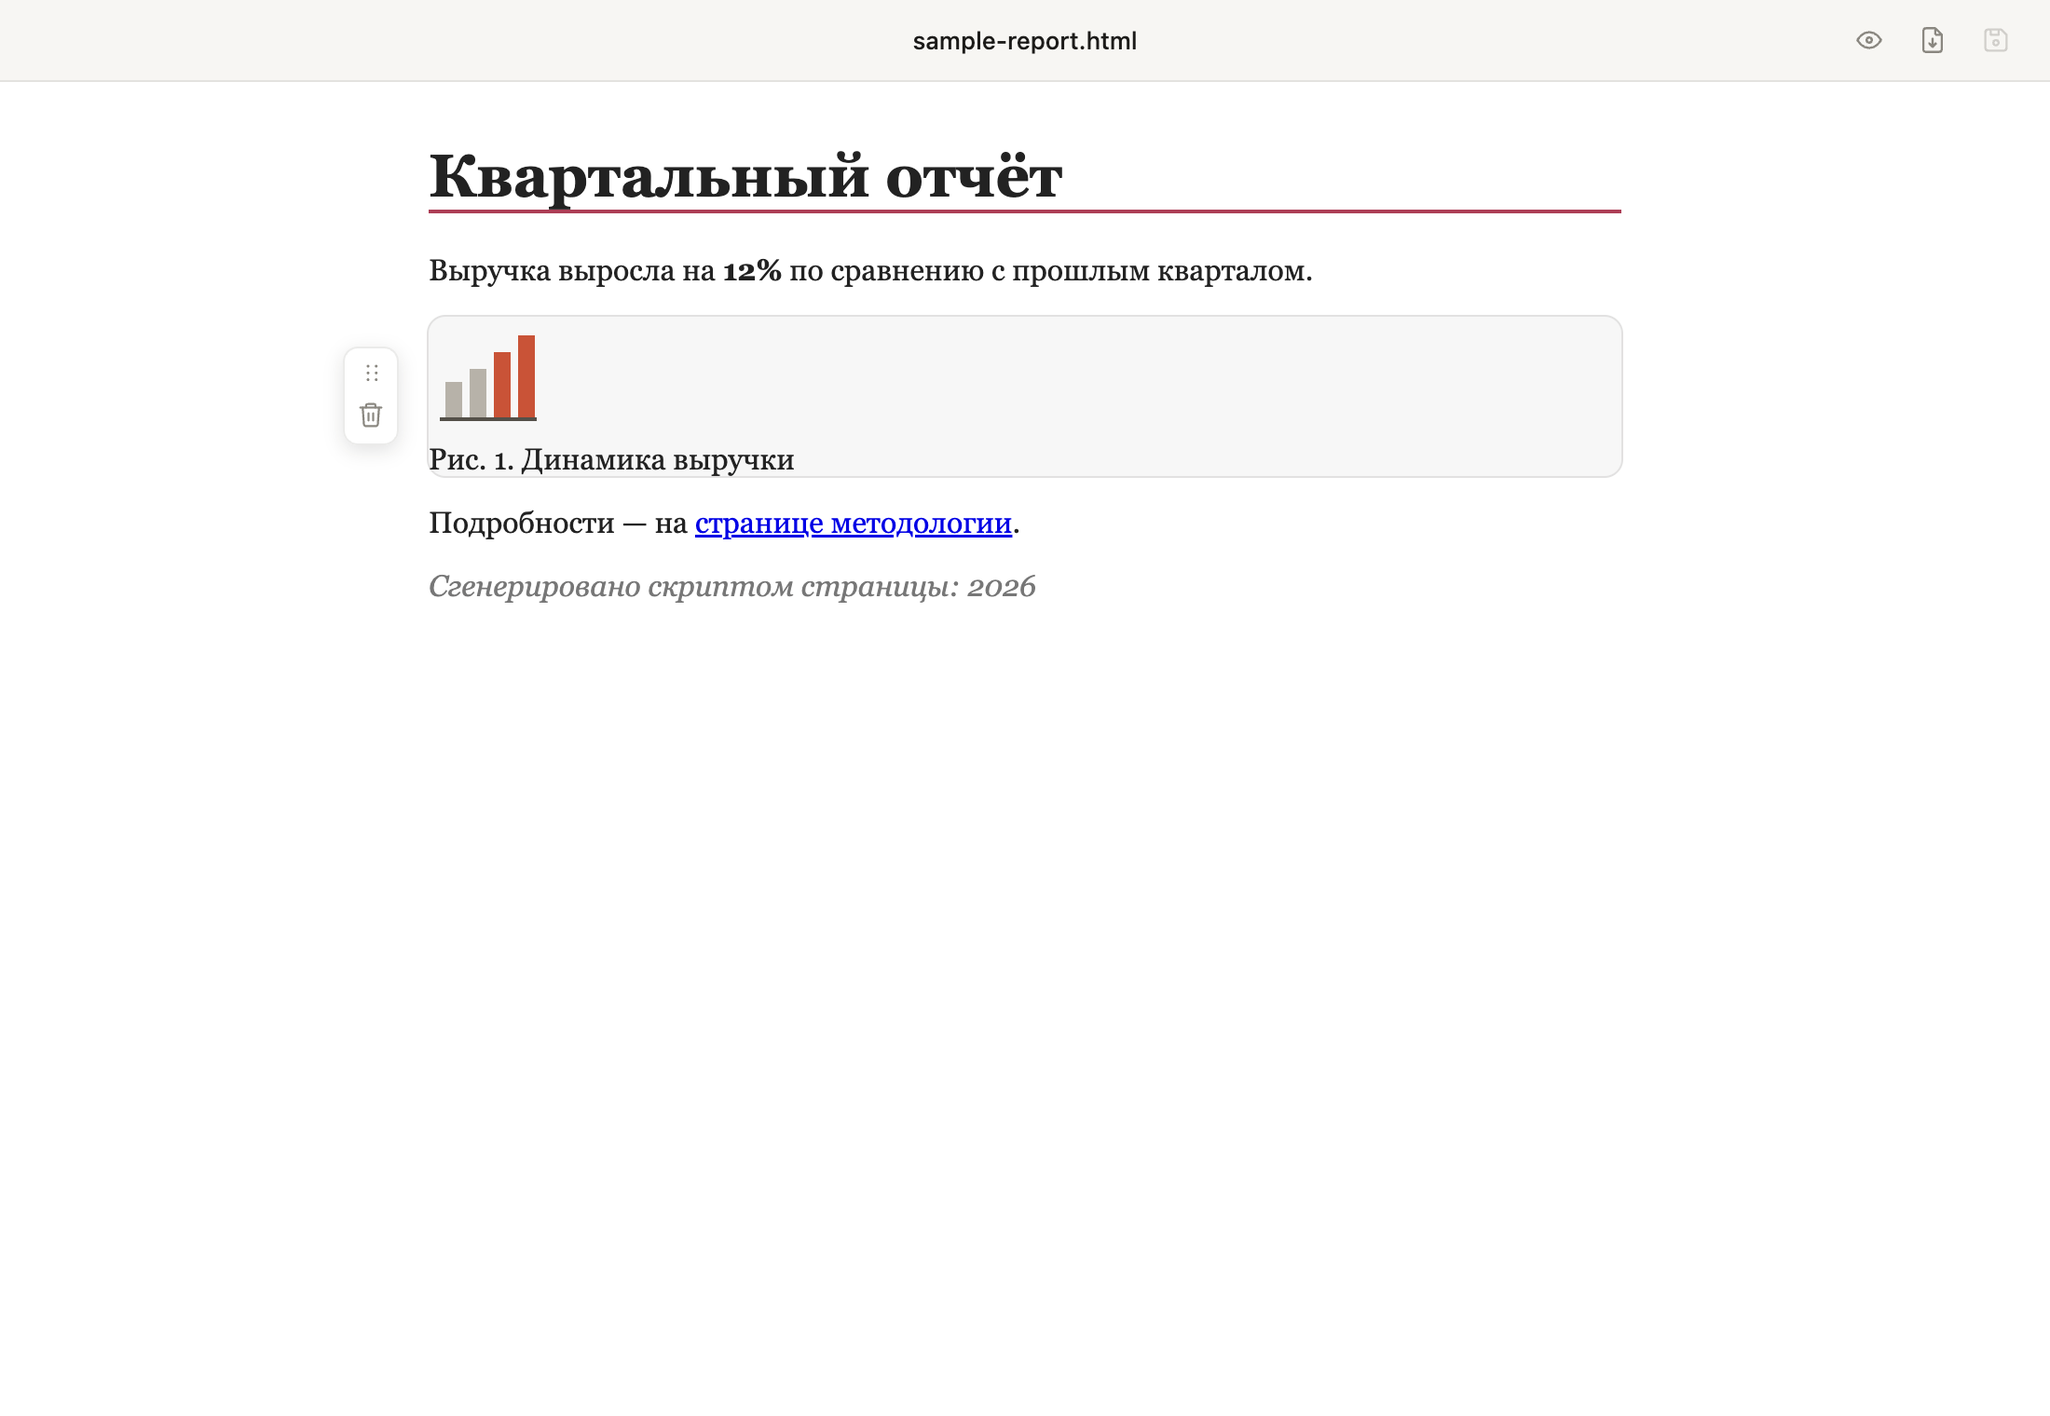
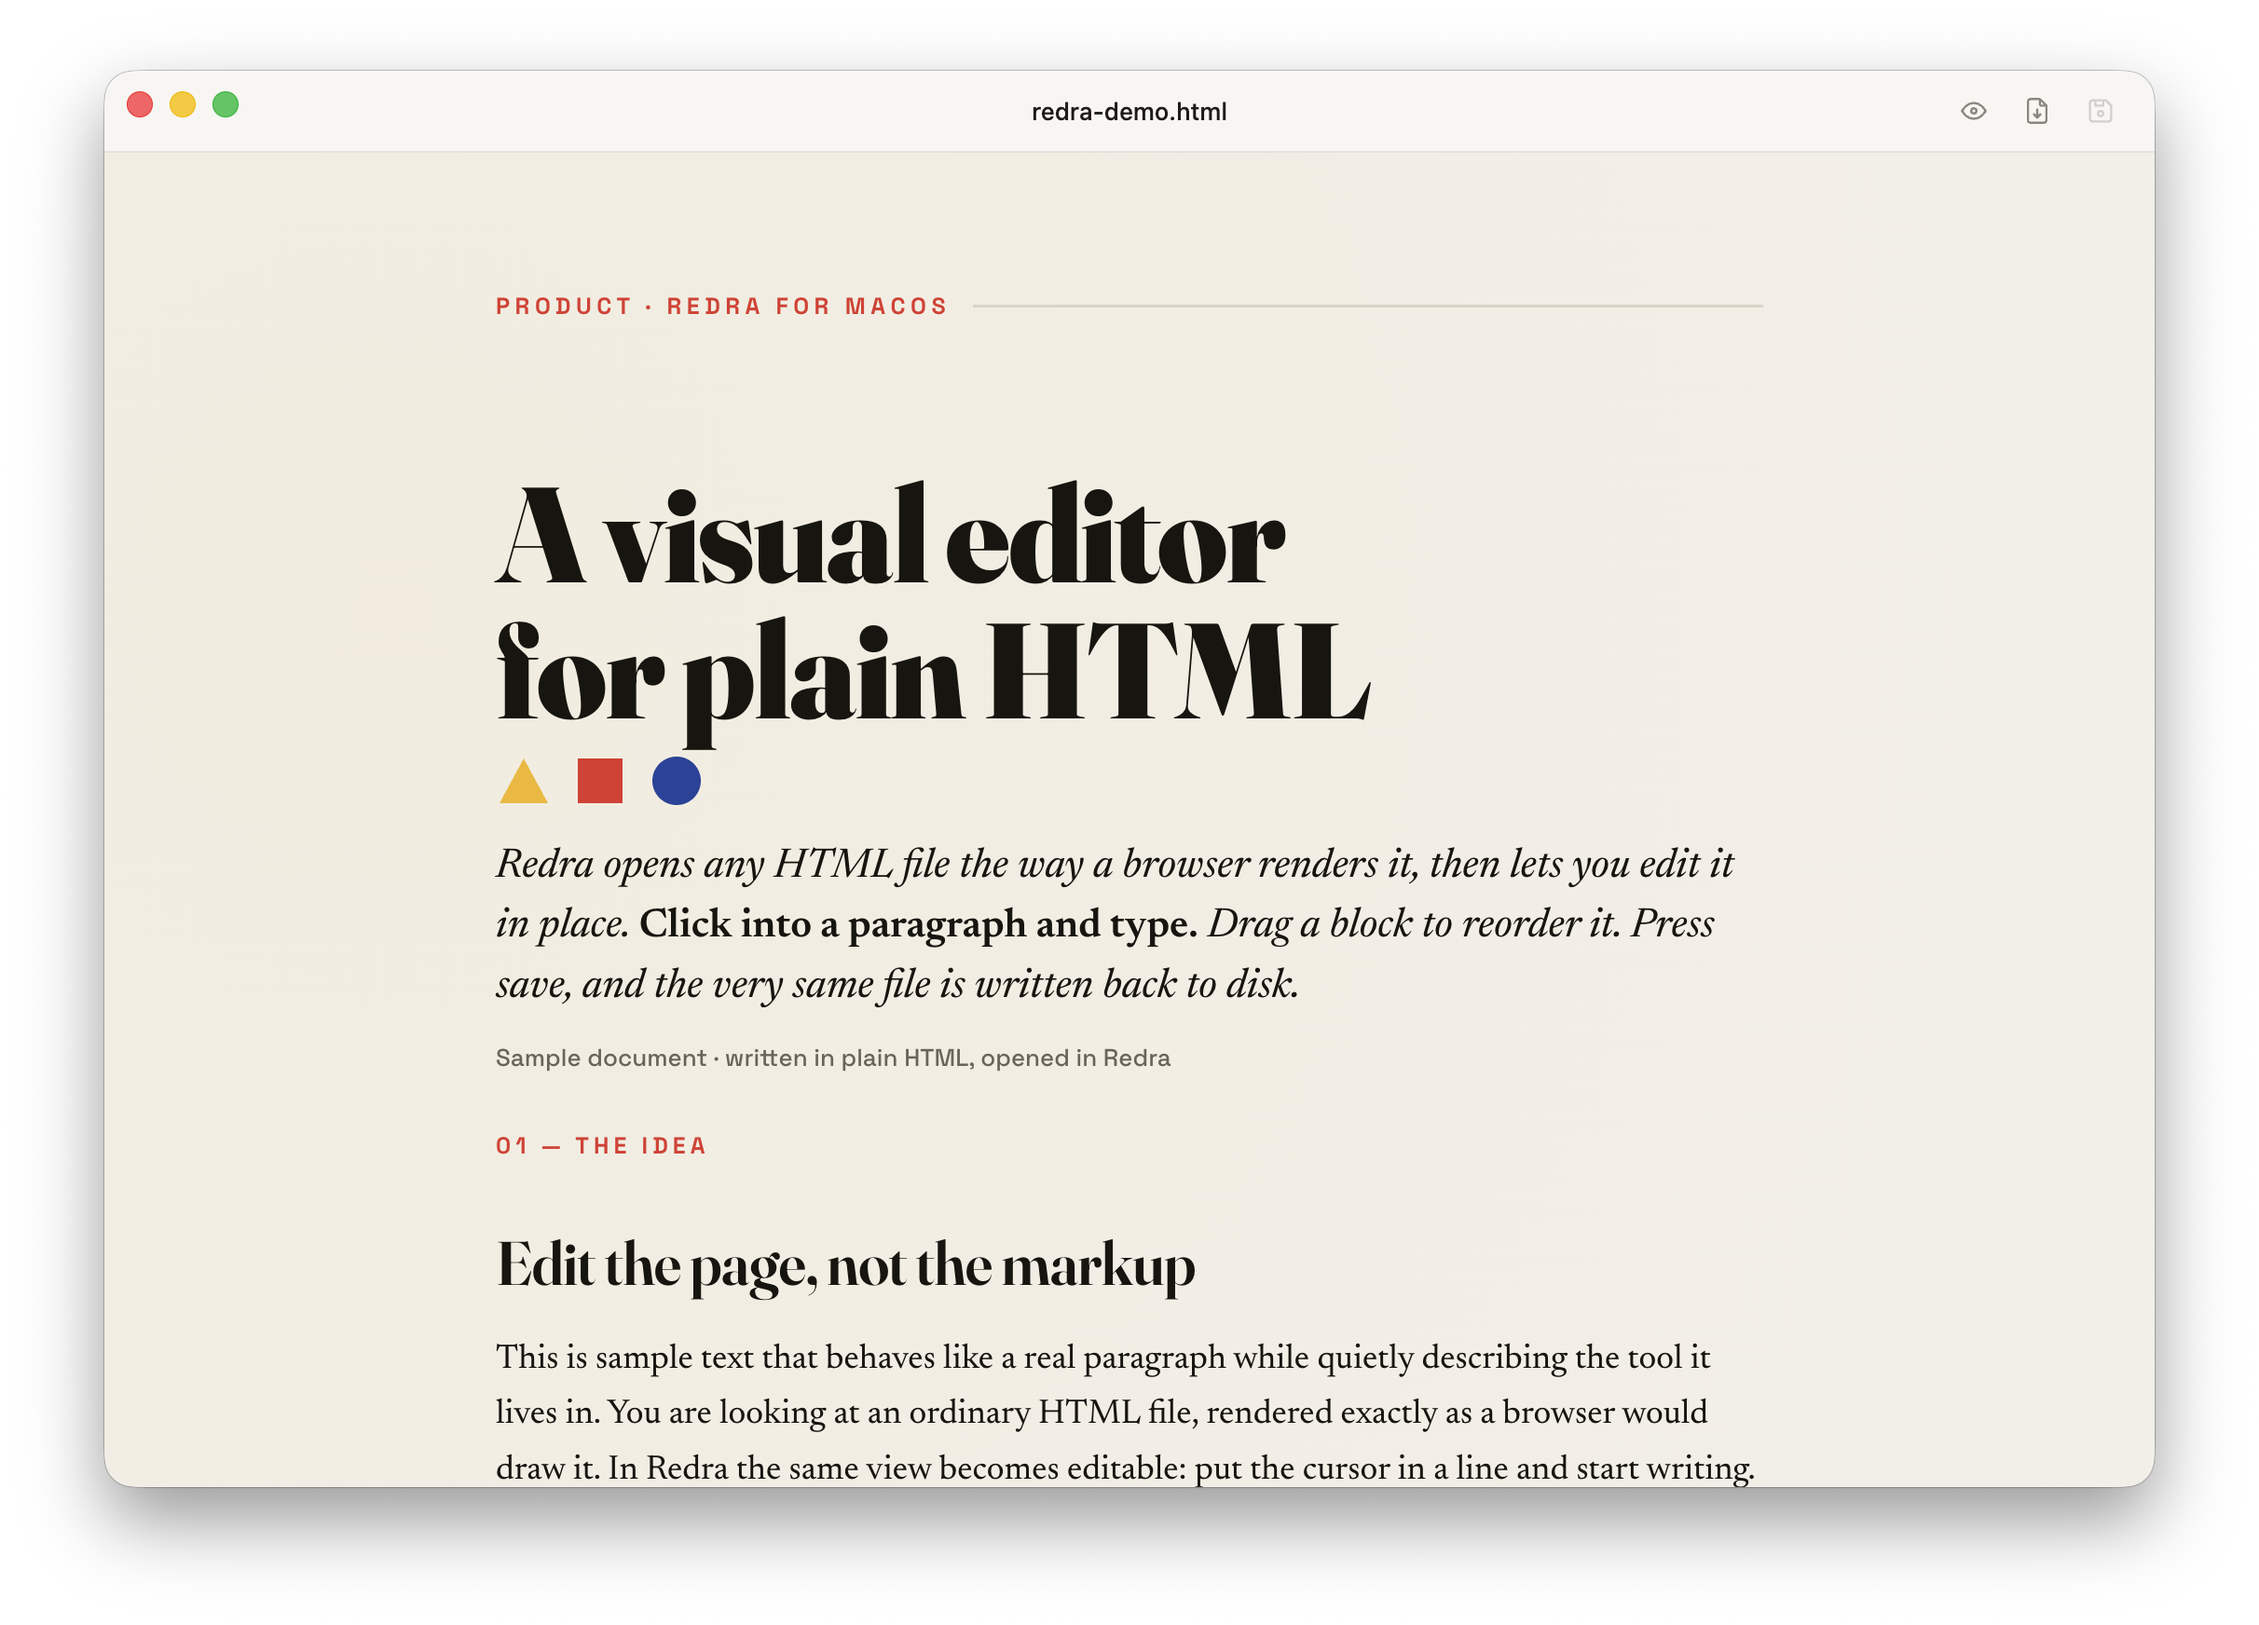
README: new screenshots (document, start screen) + features card

diff --git a/README.md b/README.md
@@ -7,7 +7,9 @@ Redra — визуальный редактор HTML-файлов для macOS. 
 ручку, удалите лишнее, нажмите ⌘S — тот же файл сохранён на диск. Или
 экспортируйте в PDF.
 
-![Документ в Redra: ручка блока при наведении](docs/assets/redra-doc.png)
+![Документ в Redra](docs/assets/redra-doc.png)
+
+![Возможности Redra](docs/assets/features.png)
 
 ## Как это устроено
 
